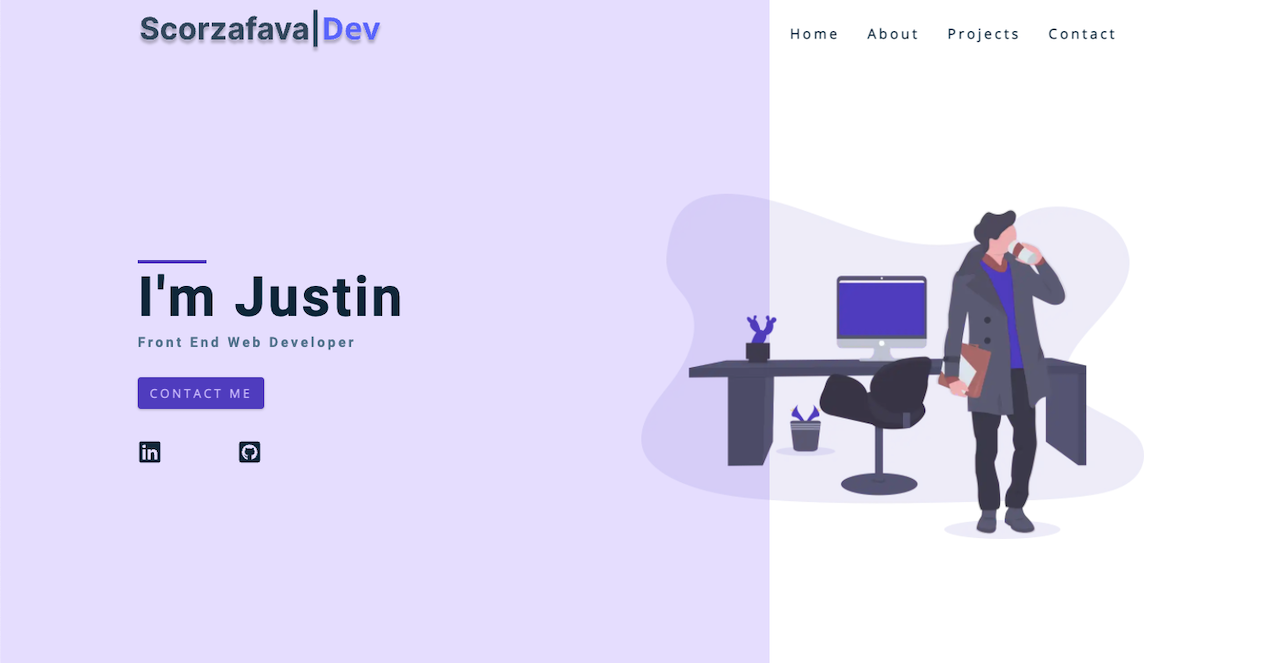
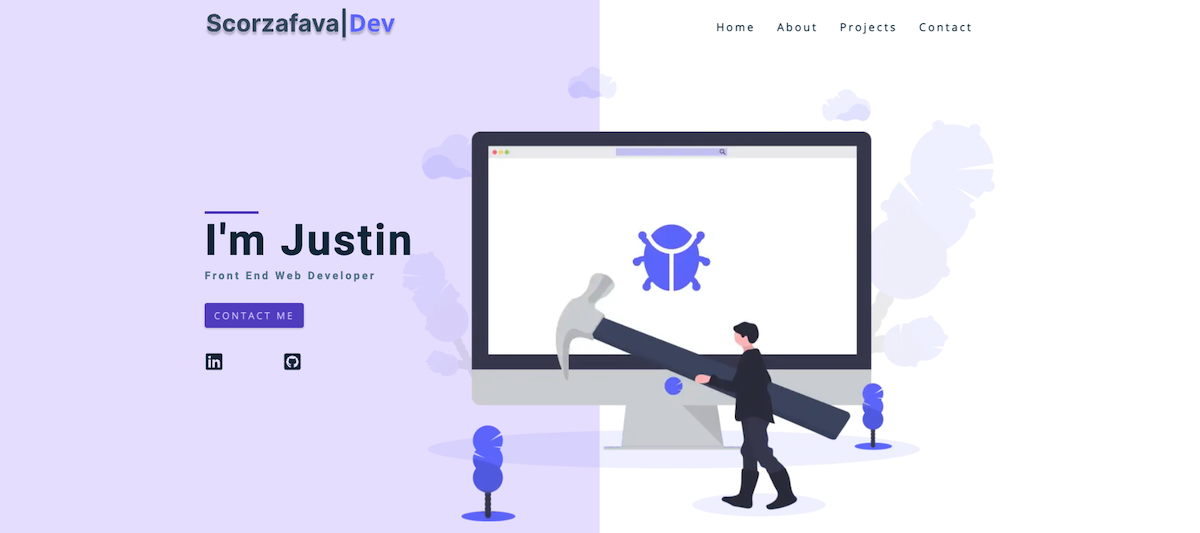
changed hero img,about img, and layout of both of them a bit

diff --git a/src/assets/css/main.css b/src/assets/css/main.css
@@ -440,9 +440,7 @@ Hero
 .hero-info {
   background: var(--clr-primary-10);
 }
-/* .hero-img {
-  display: none;
-} */
+
 .hero-img-svg {
   display: none;
 }
@@ -462,7 +460,7 @@ Hero
     content: "";
     position: absolute;
     top: 0;
-    left: 60%;
+    left: 50%;
     right: 0;
     bottom: 0;
     background: var(--clr-white);
@@ -481,7 +479,7 @@ Hero
   .hero-img {
     display: block;
     grid-row: 1/1;
-    grid-column: 7/-1;
+    grid-column: 4/-1;
   }
   .hero-img-svg {
     width: 100%;
@@ -903,17 +901,17 @@ About Page
 @media screen and (min-width: 992px) {
   .about-center {
     display: grid;
-    grid-template-columns: repeat(12, 1fr);
+    grid-template-columns: repeat(15, 1fr);
     align-items: center;
     column-gap: 4rem;
   }
   .about-img,
   .about-img-svg {
-    grid-column: 1 / span 5;
+    grid-column: 1 / span 8;
     margin-bottom: 0;
   }
   .about-text {
-    grid-column: 6 / -1;
+    grid-column: 9 / -1;
   }
 }
 /*

diff --git a/src/components/Hero.js b/src/components/Hero.js
@@ -63,7 +63,7 @@ const Hero = () => {
           </div>
         </article>
         <StaticImage
-          src="../assets/images/hero22purple.svg"
+          src="../assets/images/hero21.svg"
           alt="portfolio"
           className="hero-img"
           placeholder="blurred"
